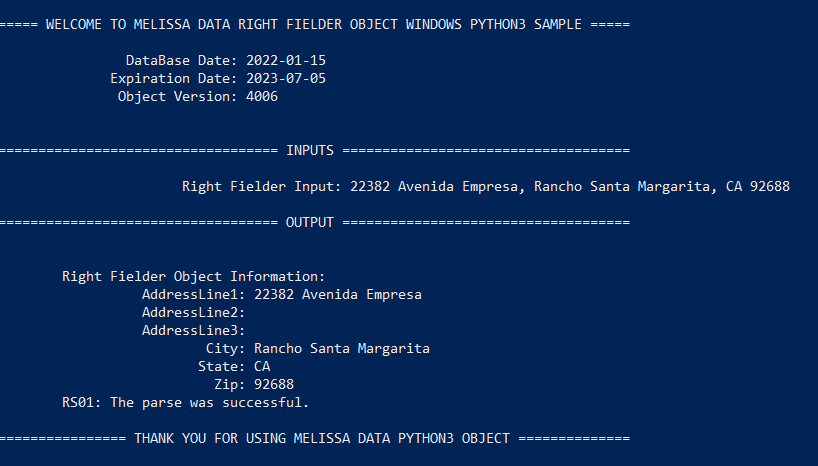
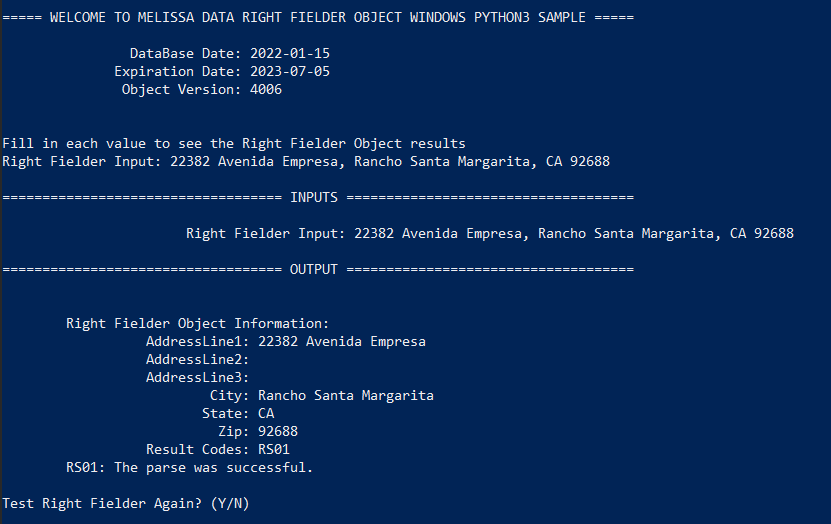
Tested successfully using Melissa data files for 2023.01

diff --git a/MelissaDataRightFielderObjectWindowsPython3Sample/MelissaDataRightFielderObjectWindowsPython3Sample.py b/MelissaDataRightFielderObjectWindowsPython3Sample/MelissaDataRightFielderObjectWindowsPython3Sample.py
@@ -125,6 +125,8 @@ def run_as_console(license, test_input, data_path):
         print(f"\t                  City: {right_fielder_object.md_right_fielder_obj.GetCity()}")
         print(f"\t                 State: {right_fielder_object.md_right_fielder_obj.GetState()}")
         print(f"\t                   Zip: {right_fielder_object.md_right_fielder_obj.GetPostalCode()}")
+        print(f"\t          Result Codes: {data_container.result_codes}")
+
         # right_fielder_object.md_right_fielder_obj.GetFullNameNext()
         # print(f"\t              FullName: {right_fielder_object.md_right_fielder_obj.GetFullName()}")
         # right_fielder_object.md_right_fielder_obj.GetDepartmentNext()

diff --git a/README.md b/README.md
@@ -21,7 +21,7 @@ And return
 
 - Windows 64-bit Python 3.8.7
 - Powershell 5.1
-- Melissa data files for 2022-12
+- Melissa data files for 2023-01
 
 ## Required File(s) and Programs
 
